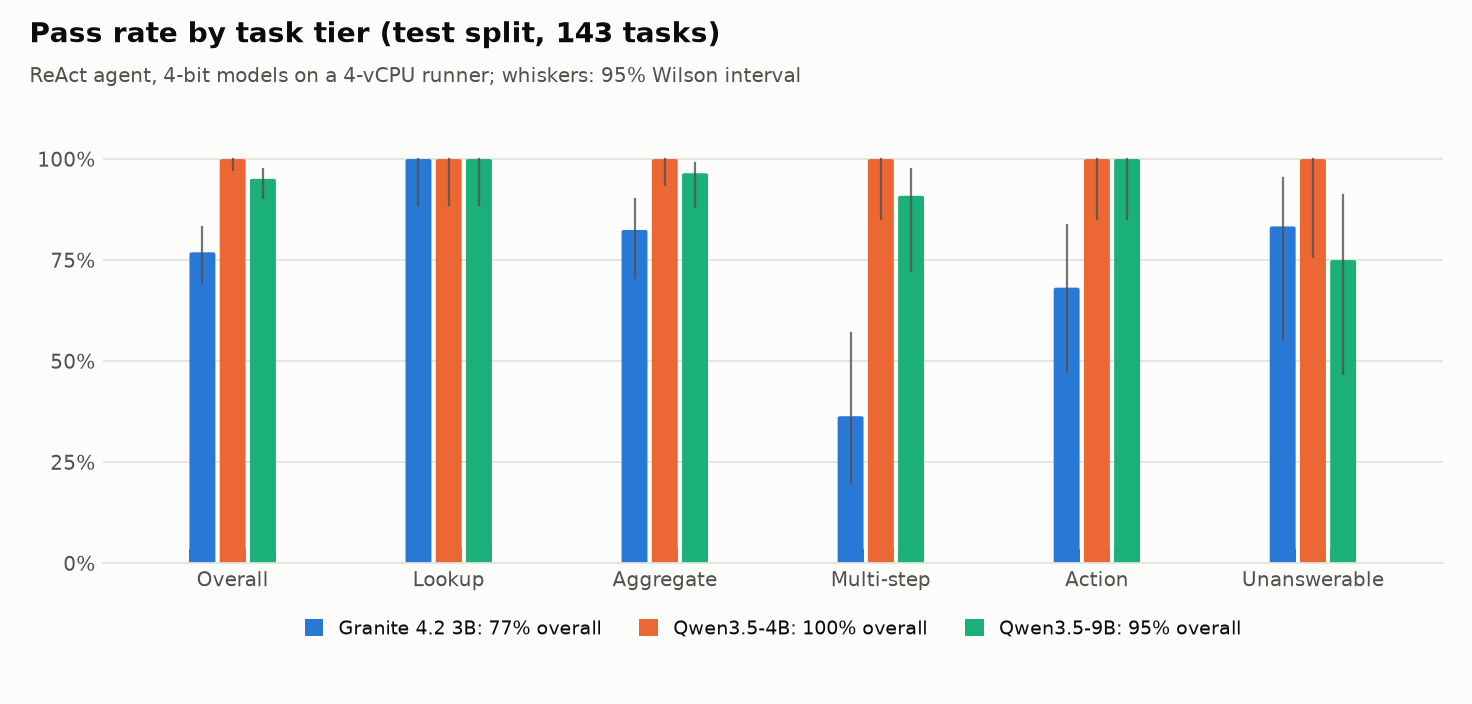
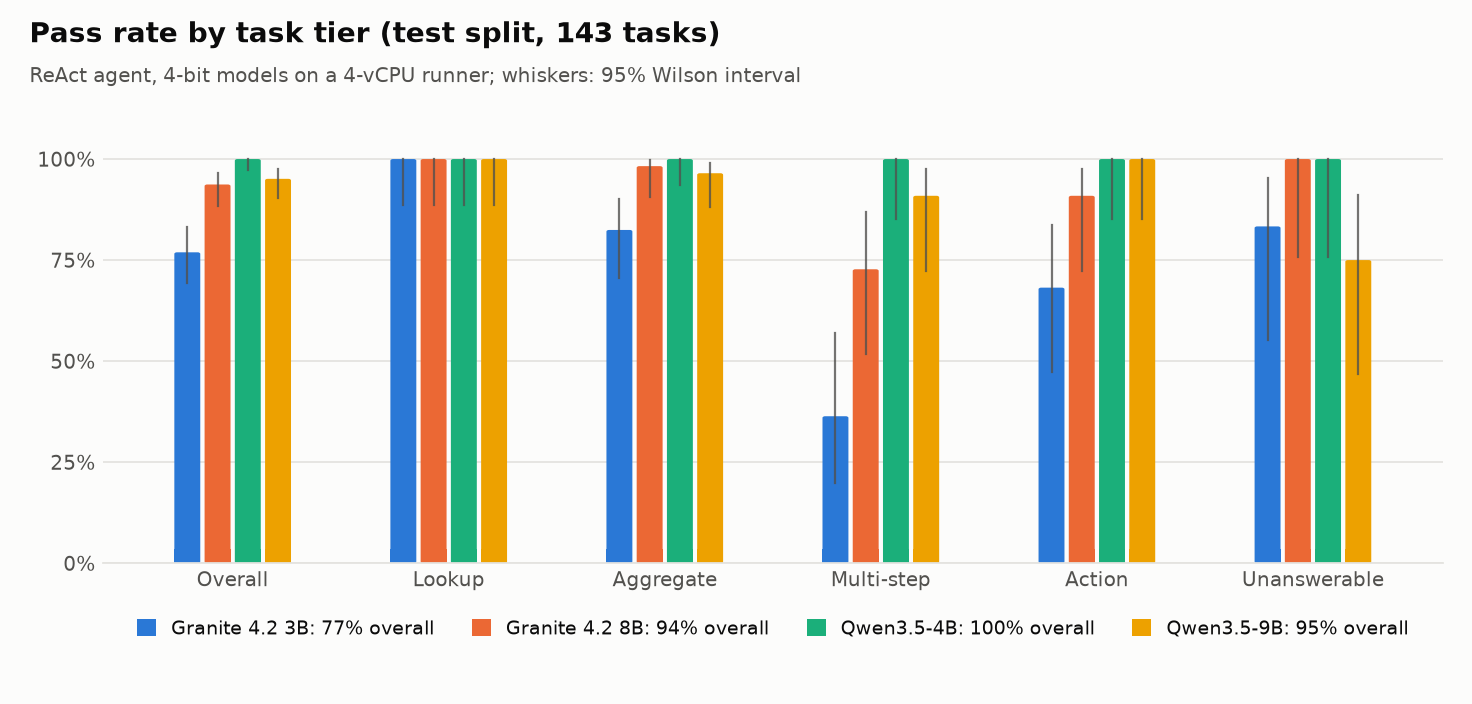
Results: Granite 4.2 8B on the test split; pass rate against time
134/143 (94%, CI 88-97%): within the Granite family 3B to 8B lifts
multi-step from 8 to 16 of 22 at 1.8x the time per task; all six
fleet-wide questions hit the 20-minute task limit. Qwen3.5-4B is both
the most accurate and the fastest of the four.

diff --git a/README.md b/README.md
@@ -18,17 +18,30 @@ the timings on the page are real.*
 | Model (4-bit GGUF) | Pass rate (95% CI) | Lookup | Aggregate | Multi-step | Action | Unanswerable | Median s / task |
 |---|---|---|---|---|---|---|---|
 | Qwen3.5-4B | **143 / 143 = 100%** (97–100%) | 30 / 30 | 57 / 57 | 22 / 22 | 22 / 22 | 12 / 12 | 38 |
-| Granite 4.2 3B | **110 / 143 = 77%** (69–83%) | 30 / 30 | 47 / 57 | 8 / 22 | 15 / 22 | 10 / 12 | 66 |
 | Qwen3.5-9B | **136 / 143 = 95%** (90–98%) | 30 / 30 | 55 / 57 | 20 / 22 | 22 / 22 | 9 / 12 | 51 |
-| Granite 4.2 8B | running | | | | | | |
+| Granite 4.2 8B | **134 / 143 = 94%** (88–97%) | 30 / 30 | 56 / 57 | 16 / 22 | 20 / 22 | 12 / 12 | 117 |
+| Granite 4.2 3B | **110 / 143 = 77%** (69–83%) | 30 / 30 | 47 / 57 | 8 / 22 | 15 / 22 | 10 / 12 | 66 |
 
 <picture>
   <source media="(prefers-color-scheme: dark)" srcset="docs/assets/test-models-dark.png">
-  <img alt="Pass rate by task tier on the test split for Granite 4.2 3B, Qwen3.5-4B and Qwen3.5-9B" src="docs/assets/test-models-light.png">
+  <img alt="Pass rate by task tier on the test split for four models" src="docs/assets/test-models-light.png">
+</picture>
+
+<picture>
+  <source media="(prefers-color-scheme: dark)" srcset="docs/assets/test-cost-dark.png">
+  <img alt="Pass rate against median seconds per task for four models" src="docs/assets/test-cost-light.png">
 </picture>
 
 All models handle one-call lookups perfectly; they separate where a task needs several
-dependent calls. **Qwen3.5-4B solves the whole test split.** It issues tool calls in parallel
+dependent calls, and the smallest Qwen model is both the most accurate and the fastest. Size
+helps within a family: Granite 4.2 goes from 77% to 94% between 3B and 8B (multi-step 8 → 16
+of 22), at 1.8 times the time per task. Six of the 8B model's nine failures are the 20-minute
+limit per task: all six fleet-wide questions timed out after 4 to 6 of the 12 or more tool
+calls they need, because every model call re-reads a growing context on four CPU cores (47 s
+per call on average, more late in a long episode). The limit was set before the runs and is a
+deployment constraint, not a scoring detail.
+
+**Qwen3.5-4B solves the whole test split.** It issues tool calls in parallel
 (the fleet-wide questions take 12–14 calls in about 6 model steps), reads a search's `total`
 field instead of counting the rows it was shown, still solved all 7 tasks in which one of its
 tool calls failed, and answers "none" whenever the data cannot answer. For this model the
@@ -172,7 +185,6 @@ session and the approval gate stop both write attacks, and nothing stops the pla
 
 In progress on GitHub's standard runners (4 vCPU, no GPU); results replace this section.
 
-- **Models**: Granite 4.2 8B and Qwen3.5-9B on the test split.
 - **Agent designs**: plan-and-execute and ReAct-with-reviewer against ReAct, on Granite 4.2 3B.
 - **Prompt injection with Qwen3.5-4B**, all four defences.
 - **LLM-as-judge**: Qwen3.5-4B grades Granite 4.2 3B's 143 test episodes, with and without
